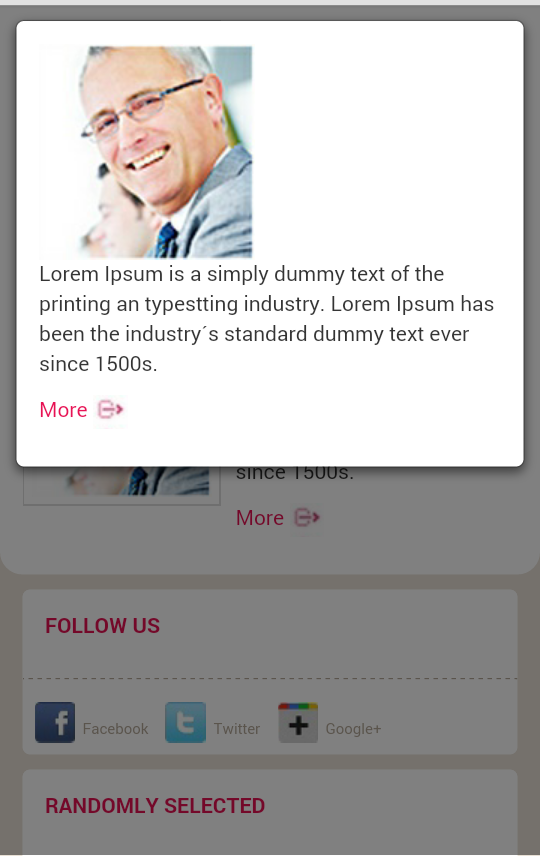
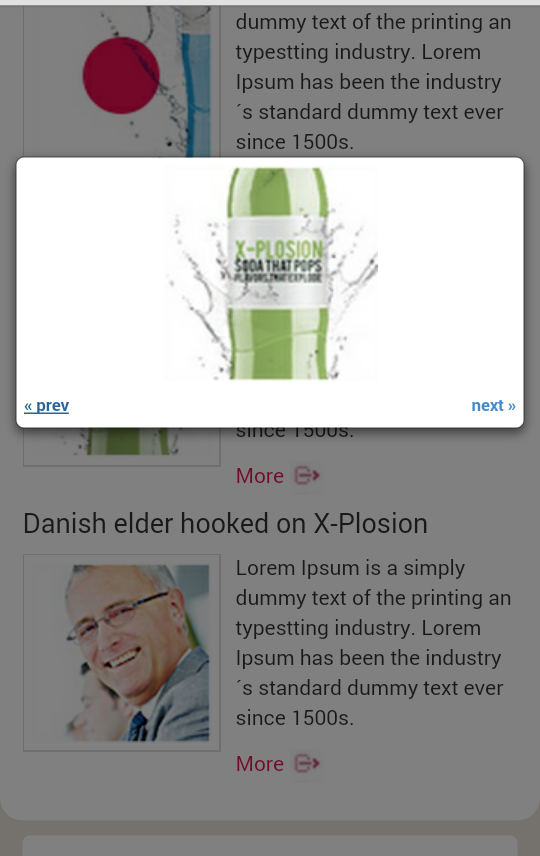
f

diff --git a/testproject/dist/js/main.js b/testproject/dist/js/main.js
@@ -3,12 +3,32 @@ $(document).ready(function(){
                 var src = $(this).attr('src');
 				var id = $(this).attr('id');
 				id = id.split("newsimage");
-                var html = '<img src="' + src + '" class="img-responsive"/>';
-				html += $('#newtext' + id[1]).html(); 
+               
+				var index = parseInt(id[1]);  	
+
+			   var html = '<img src="' + src + '" class="img-responsive"/>';
+				html += '<div style="height:25px;clear:both;display:block;">';
+                html += '<a class="controls next" href="'+ (index+1) + '">next &raquo;</a>';
+                html += '<a class="controls previous" href="' + (index-1) + '">&laquo; prev</a>';
+                html += '</div>';
 				
                 $('#myModal').modal();
                 $('#myModal').on('shown.bs.modal', function(){
                     $('#myModal .modal-body').html(html);
+					
+					var total = $('.img-responsive').length;
+					
+					 var newPrevIndex = parseInt(id[1]); 
+					 var newNextIndex = parseInt(total) - 1; 
+					
+					//hide next button
+					if(index === newNextIndex){
+						$('a.next').hide();
+					}          
+					//hide previous button
+					if(newPrevIndex === 1){
+						$('a.previous').hide();
+					}
                 })
                 $('#myModal').on('hidden.bs.modal', function(){
                     $('#myModal .modal-body').html('');
@@ -17,3 +37,41 @@ $(document).ready(function(){
            });
         
 })  
+
+
+$(document).on('click', 'a.controls', function(){
+            var index = parseInt($(this).attr('href'));
+			var src = $('#newsimage'+index).attr('src');             
+            
+            $('.modal-body img').attr('src', src);
+            
+			var newPrevIndex = index - 1; 
+            var newNextIndex = index + 1; 
+            
+			if($(this).hasClass('previous')){               
+                $(this).attr('href', newPrevIndex); 
+                $('a.next').attr('href', newNextIndex);
+            }else{
+                $(this).attr('href', newNextIndex); 
+                $('a.previous').attr('href', newPrevIndex);
+            }
+			
+			var total = $('.img-responsive').length;
+			
+			newNextIndex = total-1;
+						
+			//hide next button
+            if(index === newNextIndex){
+                $('a.next').hide();
+            }else{
+                $('a.next').show()
+            }            
+            //hide previous button
+            if(newPrevIndex === 0){
+                $('a.previous').hide();
+            }else{
+                $('a.previous').show()
+            }
+            
+            return false;
+        });

diff --git a/testproject/index.html b/testproject/index.html
@@ -11,7 +11,8 @@
 
     <!-- Bootstrap core CSS -->
     <link href="dist/css/bootstrap.min.css" rel="stylesheet">
-	<link href="dist/css/test.css" rel="stylesheet">
+	<link href="dist/css/main.css" rel="stylesheet">
+	<link href="dist/css/gallery.css" rel="stylesheet">
 	<script src="dist/js/jquery-1.10.2.min.js"></script>
 	 <script src="dist/js/main.js"></script>
   </head>
